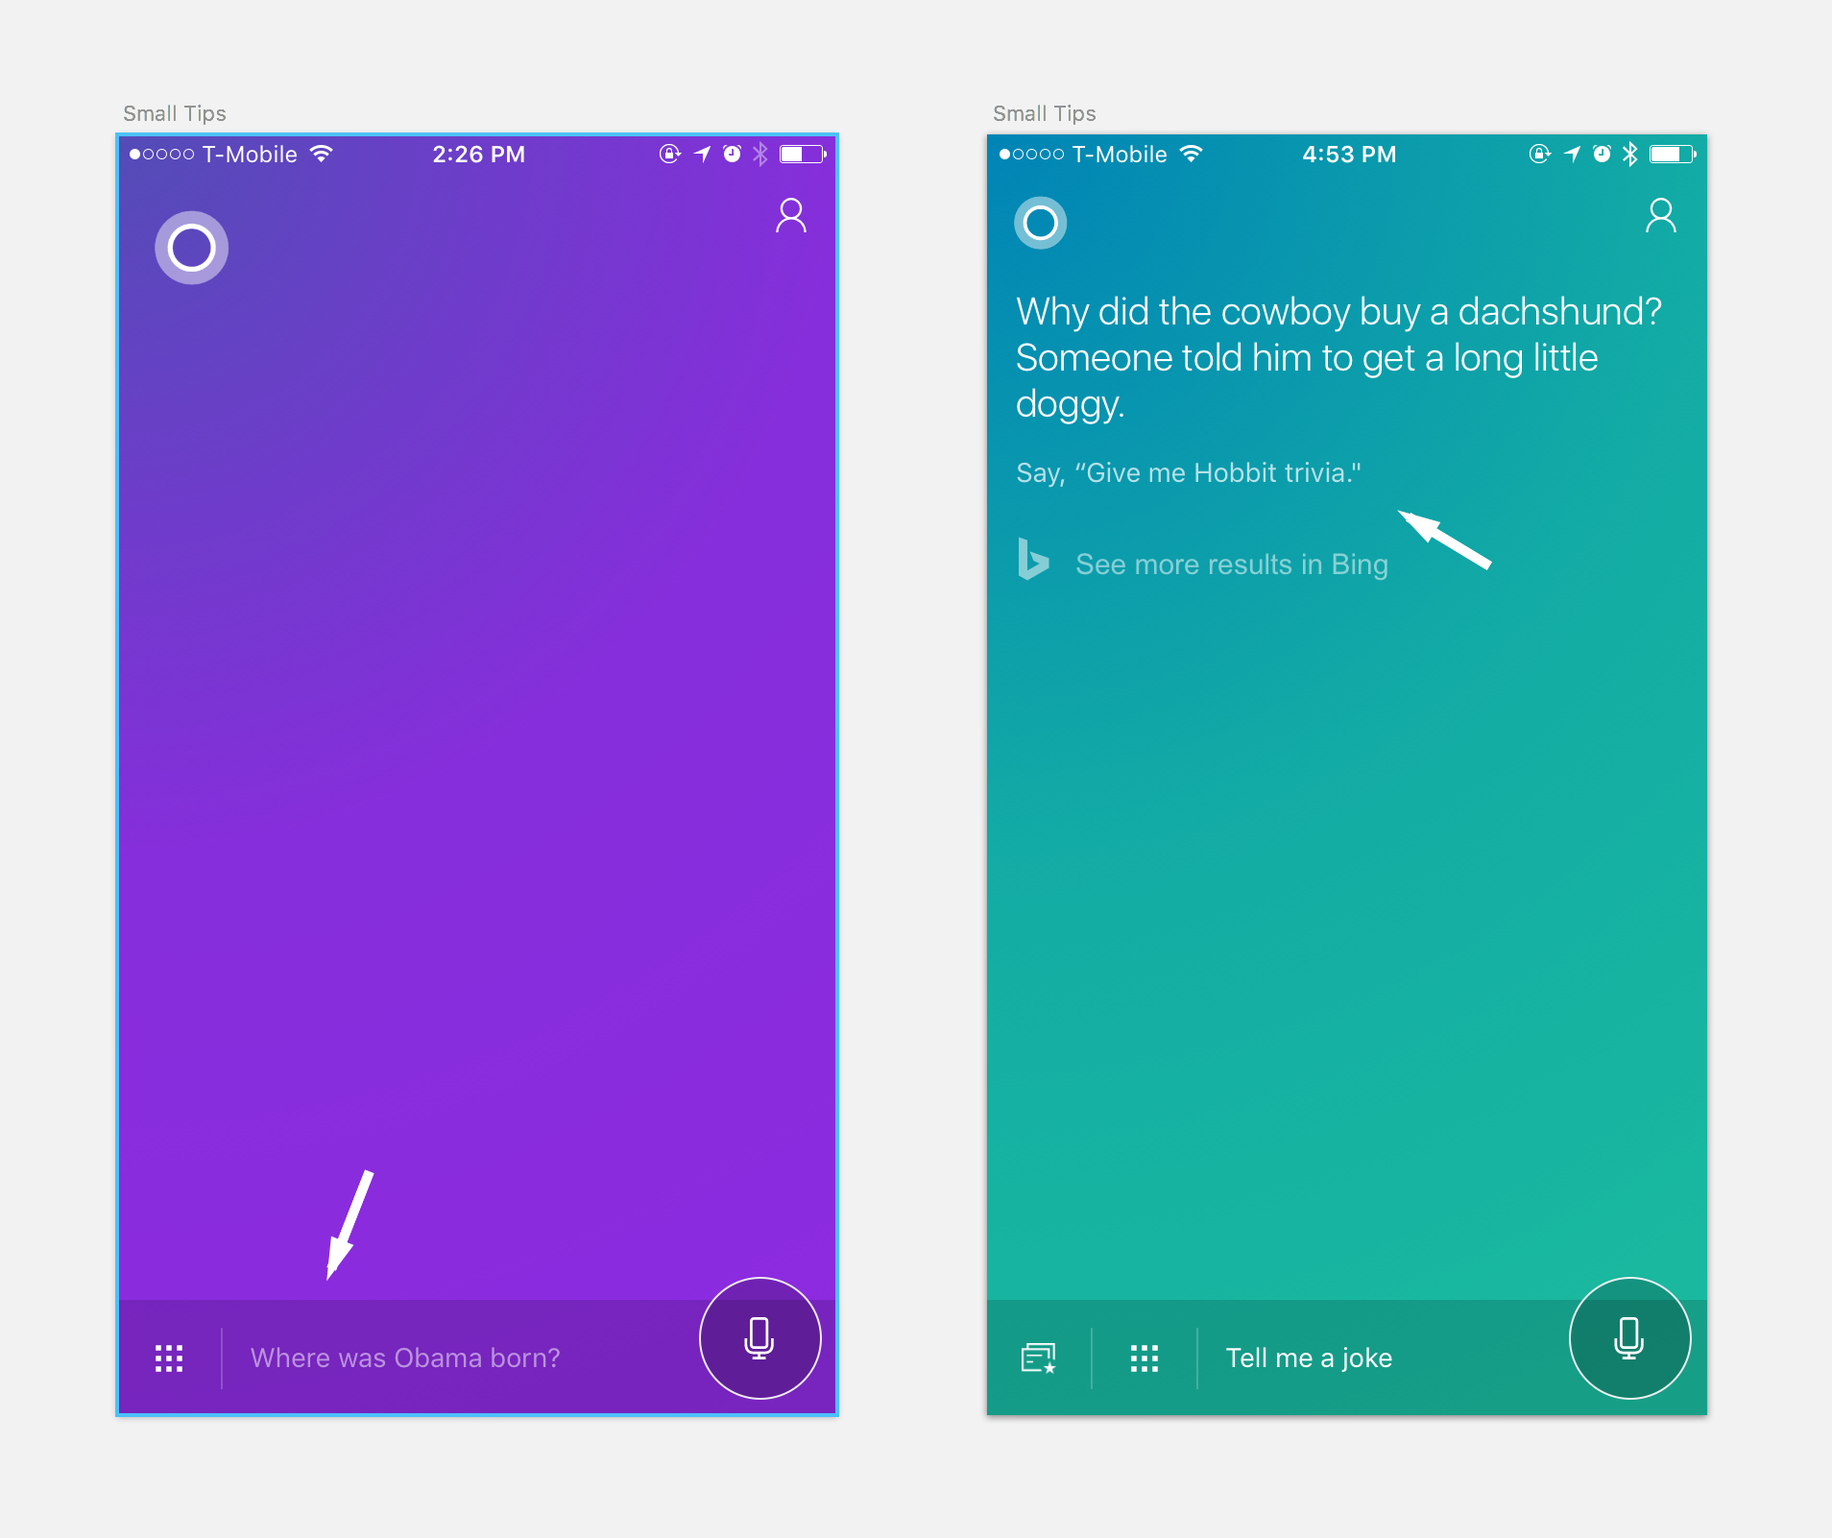
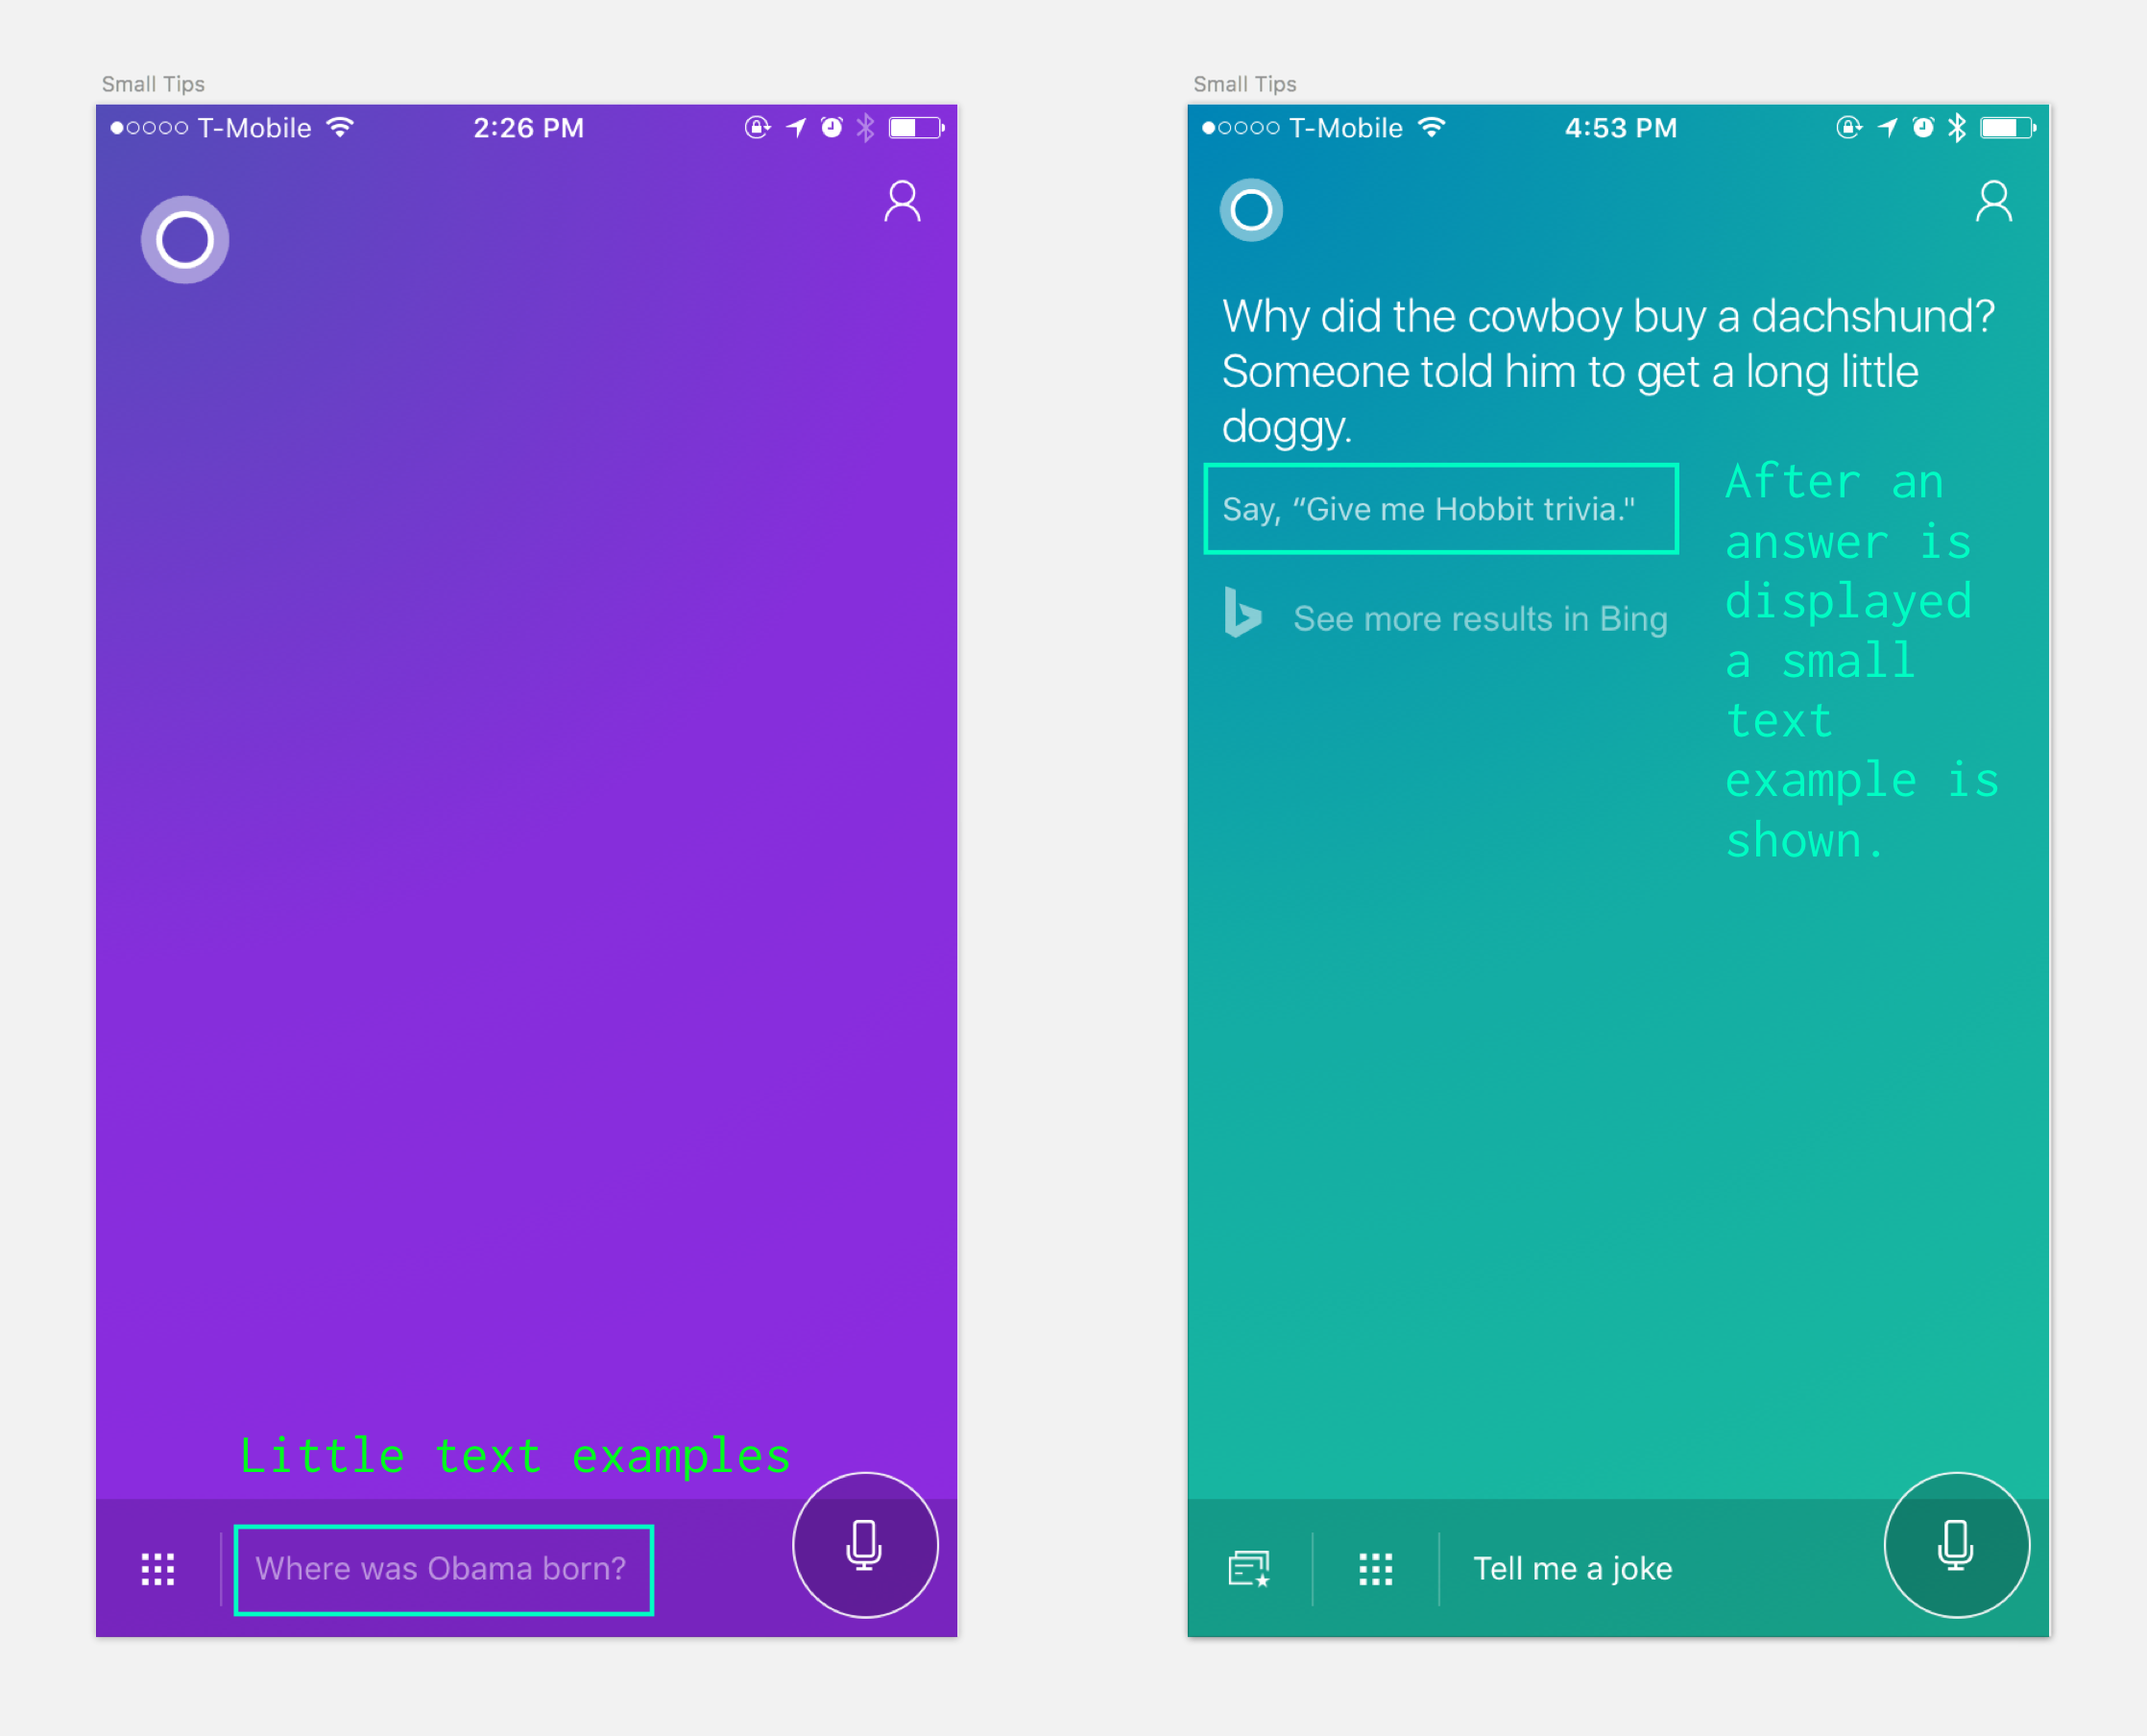
Image Changes

Changed region(s): [[0.5257, 0.0312, 0.9586, 0.9675], [0.0309, 0.0312, 0.4638, 0.9675]]

diff --git a/css/style.css b/css/style.css
@@ -196,7 +196,7 @@ pre code {
 }
 small {
   font-size: .8em;
-  color: rgba({{ site.text-color }},.5);
+  color: #00FCC3;
 }
 small a {
   color: red;

diff --git a/_posts/2017-04-01-diva-visual-nuggets.md b/_posts/2017-04-01-diva-visual-nuggets.md
@@ -39,7 +39,7 @@ We went through all the different solutions and discussed the pros and cons of e
 
 Another thing we liked was when a skill was visualized as an icon.
 
-![Visuals]({{ site.baseurl }}/img/diva-tips-visualisation.png)
+![Visuals]({{ site.baseurl }}/img/diva-tips-visualisation.png)<small>Icons visualize skill instead of just text</small>
 
 We felt that giving the user the information in small chunks of teaching would be the best approach. We had two opportunities to do that, the start screen and the product list view screen. We sketched on the printed-out screens how and where the visual-nuggets could be placed and what we would want to teach the user. 
 
